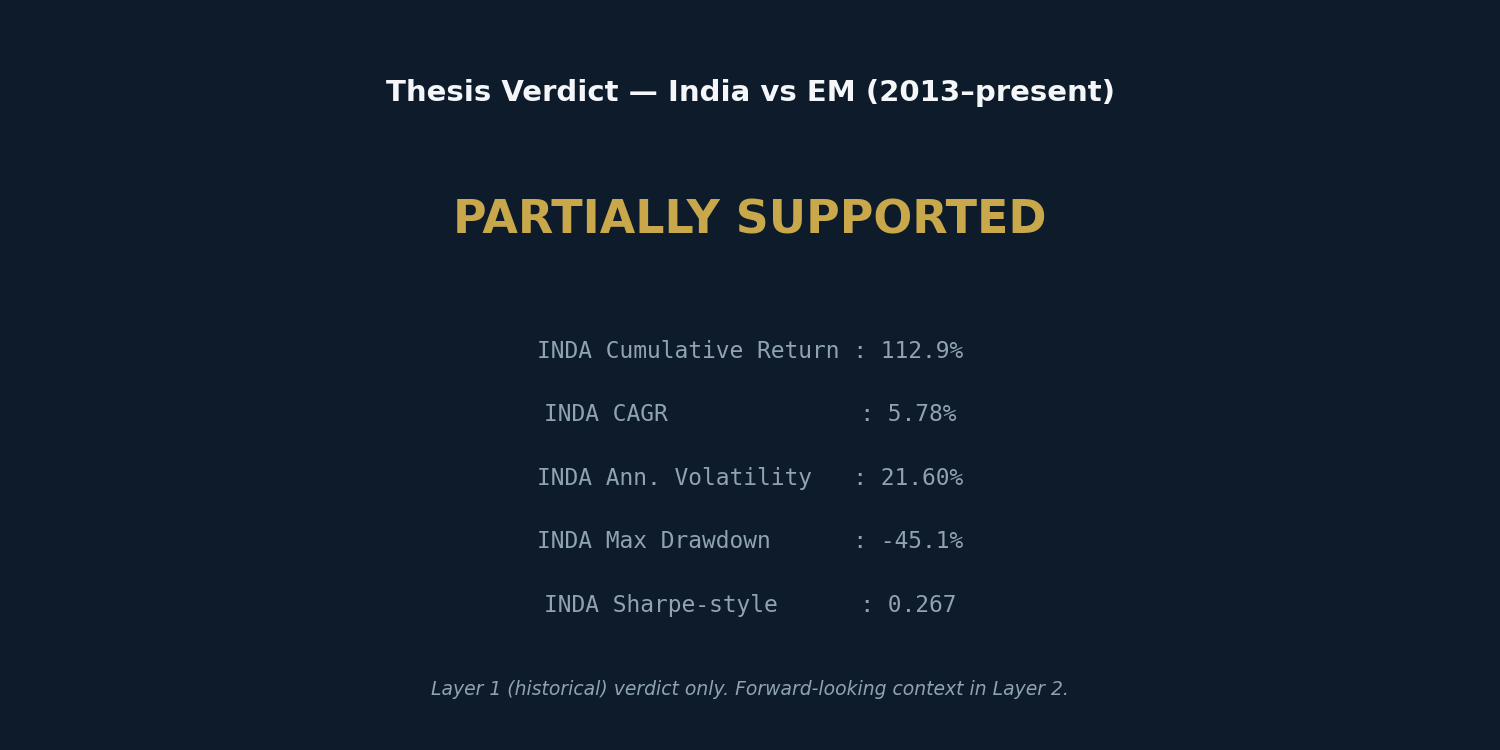
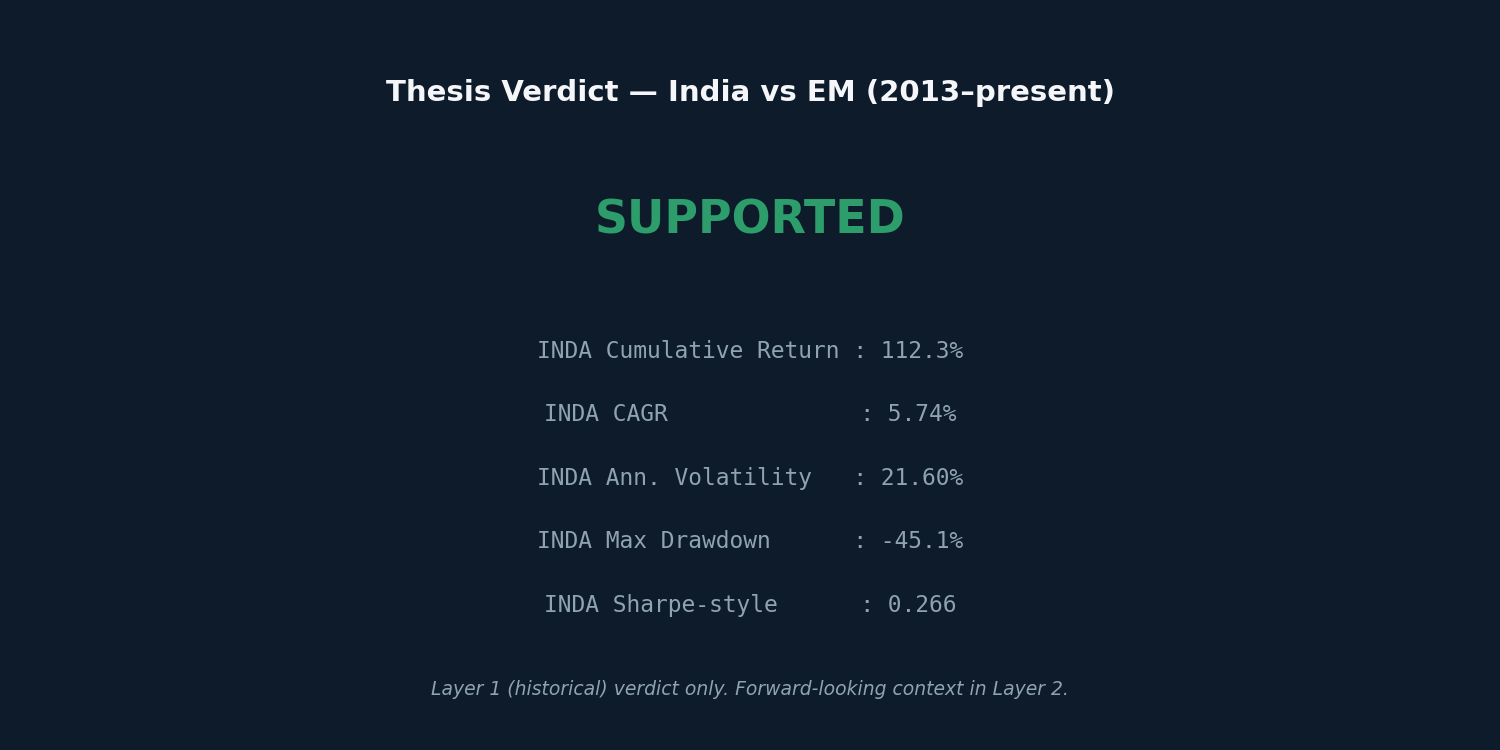
Pin analysis window to 2026-06-25; replace EEM with EM ex-India benchmark; update verdict to SUPPORTED; rewrite Layer 1 narrative and report

Changed region(s): [[0.3067, 0.2453, 0.7053, 0.3373], [0.6133, 0.7973, 0.644, 0.828]]

diff --git a/src/bronze/analysis.py b/src/bronze/analysis.py
@@ -226,19 +226,26 @@ def generate_report(metrics: pd.DataFrame, verdict: str) -> str:
     def raw(ticker, col):
         return metrics.loc[metrics["Ticker"] == ticker, col].values[0]
 
-    inda_ret   = raw("INDA", "_total_ret_raw")
-    eem_ret    = raw("EEM",  "_total_ret_raw")
-    fxi_ret    = raw("FXI",  "_total_ret_raw")
-    inda_sh    = raw("INDA", "_sharpe_raw")
-    eem_sh     = raw("EEM",  "_sharpe_raw")
-    fxi_sh     = raw("FXI",  "_sharpe_raw")
+    inda_ret   = raw("INDA",        "_total_ret_raw")
+    ex_ret     = raw("EEM_exIndia", "_total_ret_raw")
+    fxi_ret    = raw("FXI",         "_total_ret_raw")
+    inda_sh    = raw("INDA",        "_sharpe_raw")
+    ex_sh      = raw("EEM_exIndia", "_sharpe_raw")
+    fxi_sh     = raw("FXI",         "_sharpe_raw")
 
     # ── Formatted display values for the table ───────────────────────────────
     display_cols = ["Ticker", "Cumulative Return", "CAGR", "Ann. Vol",
                     "Max Drawdown", "Sharpe-style"]
-    roles = {"INDA": "India proxy", "EEM": "Broad EM benchmark", "FXI": "China benchmark"}
+    roles = {
+        "INDA":        "India proxy",
+        "EEM_exIndia": "EM ex-India benchmark (approx., fixed ~15% wt)",
+        "FXI":         "China benchmark",
+    }
     display = metrics[display_cols].copy()
+    display = display[display["Ticker"].isin(["INDA", "EEM_exIndia", "FXI"])].copy()
+    display = display.set_index("Ticker").reindex(["INDA", "EEM_exIndia", "FXI"]).reset_index()
     display["Role"] = display["Ticker"].map(roles)
+    display["Ticker"] = display["Ticker"].replace({"EEM_exIndia": "EM ex-India *"})
 
     # Build a markdown table row by row
     md_header = "| " + " | ".join(display.columns) + " |"
@@ -250,47 +257,45 @@ def generate_report(metrics: pd.DataFrame, verdict: str) -> str:
     md_table  = "\n".join([md_header, md_sep, md_rows])
 
     # ── Layer 1 narrative — built from actual comparisons ────────────────────
-    # We explain WHY the verdict is what it is using real numbers, not fixed prose.
-    beats_eem_ret    = inda_ret > eem_ret
+    beats_ex_ret     = inda_ret > ex_ret
     beats_fxi_ret    = inda_ret > fxi_ret
-    beats_eem_sharpe = inda_sh  > eem_sh
+    beats_ex_sharpe  = inda_sh  > ex_sh
     beats_fxi_sharpe = inda_sh  > fxi_sh
 
     inda_ret_fmt = f"{inda_ret*100:.1f}%"
-    eem_ret_fmt  = f"{eem_ret*100:.1f}%"
+    ex_ret_fmt   = f"{ex_ret*100:.1f}%"
     fxi_ret_fmt  = f"{fxi_ret*100:.1f}%"
     inda_sh_fmt  = f"{inda_sh:.3f}"
-    eem_sh_fmt   = f"{eem_sh:.3f}"
+    ex_sh_fmt    = f"{ex_sh:.3f}"
     fxi_sh_fmt   = f"{fxi_sh:.3f}"
 
-    ret_vs_eem   = "beat" if beats_eem_ret    else "trailed"
+    ret_vs_ex    = "beat" if beats_ex_ret     else "trailed"
     ret_vs_fxi   = "beat" if beats_fxi_ret    else "trailed"
-    sh_vs_eem    = "beat" if beats_eem_sharpe  else "trailed"
-    sh_vs_fxi    = "beat" if beats_fxi_sharpe  else "trailed"
+    sh_vs_ex     = "beat" if beats_ex_sharpe  else "trailed"
+    sh_vs_fxi    = "beat" if beats_fxi_sharpe else "trailed"
 
     layer1_narrative = (
-        f"INDA {ret_vs_eem} EEM on cumulative return ({inda_ret_fmt} vs {eem_ret_fmt}) "
+        f"INDA {ret_vs_ex} EM ex-India on cumulative return ({inda_ret_fmt} vs {ex_ret_fmt}) "
         f"and {ret_vs_fxi} FXI ({inda_ret_fmt} vs {fxi_ret_fmt}). "
-        f"On the Sharpe-style ratio, INDA {sh_vs_eem} EEM ({inda_sh_fmt} vs {eem_sh_fmt}) "
+        f"On the Sharpe-style ratio, INDA {sh_vs_ex} EM ex-India ({inda_sh_fmt} vs {ex_sh_fmt}) "
         f"and {sh_vs_fxi} FXI ({inda_sh_fmt} vs {fxi_sh_fmt}). "
-        f"By the pre-declared rule, this is **{verdict}**: India beat China decisively on "
-        f"both measures, but could not outperform broad EM on a risk-adjusted basis — "
-        f"it returned slightly more while also being slightly more volatile."
+        f"By the pre-declared rule, this is **{verdict}**."
     )
 
     # ── Assemble the report ──────────────────────────────────────────────────
     report = f"""# Thesis #16 — Emerging Markets: India's Decade to Shine?
 
 **Thesis statement:** Testing whether India delivered better risk-adjusted USD returns
-than broad EM (EEM) and China (FXI) over 2013–present.
+than EM ex-India and China (FXI) over 2013–2026.
 
 ---
 
 ## Data & Method
 
 - **Source:** Yahoo Finance via yfinance (`auto_adjust=True` — prices include dividends)
-- **Instruments:** INDA (India proxy), EEM (broad EM benchmark), FXI (China benchmark), INR=X (USD/INR spot, for currency correlation only)
-- **Window:** 2013-01-01 to present
+- **Instruments:** INDA (India proxy), EM ex-India (primary EM benchmark; India's contribution removed using a fixed ~15% weight), FXI (China benchmark), INR=X (USD/INR spot, for currency correlation only)
+- India is ~15% of standard broad-EM indices like EEM, so comparing India directly against EEM partly compares India against itself; the EM benchmark here is EM ex-India, with India's contribution removed.
+- **Window:** 2013-01-01 to 2026-06-25 (pinned for reproducibility)
 - **Denominated in:** USD throughout — ETF prices are USD-quoted, so no manual conversion is needed
 - **Valuation:** Treated as forward-looking context (Layer 2), not modelled in the return analysis
 - **Risk-adjusted metric:** Annualised return ÷ annualised volatility (0% risk-free rate, per decision log)
@@ -362,7 +367,14 @@ def main():
 
     # Step 3: Risk metrics table (CAGR, vol, drawdown, Sharpe-style)
     print("\n[3/5] Computing risk metrics...")
-    metrics = compute_risk_metrics(prices)
+    # EEM_exIndia is a return-derived series, not a raw price series, so we can't
+    # pass it directly to compute_risk_metrics(). We convert it to a synthetic price
+    # index (starting at 100) so the function can treat it like any other ticker:
+    # pct_change() on the index recovers the exact daily returns we put in.
+    ex_price_index = (1 + returns["daily"]["EEM_exIndia"]).cumprod() * 100
+    prices_aug = prices.copy()
+    prices_aug["EEM_exIndia"] = ex_price_index
+    metrics = compute_risk_metrics(prices_aug)
 
     # Step 4: Rolling correlation
     print("\n[4/5] Running correlation analysis...")
@@ -378,12 +390,24 @@ def main():
     display_cols = ["Ticker", "Cumulative Return", "CAGR", "Ann. Vol", "Max Drawdown", "Sharpe-style"]
     display = metrics[display_cols].copy()
 
-    # Add a Role column so the table is self-explanatory
-    roles = {"INDA": "India proxy", "EEM": "Broad EM benchmark", "FXI": "China benchmark"}
+    # Pin display order: raw EEM first, then EM ex-India directly below it
+    # so the reader can compare the two EM benchmarks side by side.
+    ticker_order = ["INDA", "EEM_exIndia", "FXI"]
+    display = display.set_index("Ticker").reindex(ticker_order).reset_index()
+
+    roles = {
+        "INDA":        "India proxy",
+        "EEM":         "Broad EM benchmark (raw)",
+        "EEM_exIndia": "EM ex-India (approx.)",
+        "FXI":         "China benchmark",
+    }
     display["Role"] = display["Ticker"].map(roles)
+    # Rename the internal column name to a human-readable label for printing
+    display["Ticker"] = display["Ticker"].replace({"EEM_exIndia": "EM ex-India *"})
 
     print("\n── SUMMARY TABLE ──────────────────────────────────────────────")
     print(display.to_string(index=False))
+    print("  * Fixed ~15% India weight approximation; actual weight varied ~13–15% over 2013–present.")
     print()
 
     # ── Verdict ─────────────────────────────────────────────────────────────

diff --git a/src/data_engine.py b/src/data_engine.py
@@ -1,6 +1,5 @@
 import yfinance as yf
 import pandas as pd
-from datetime import date
 
 # Toggle: set to True to pull live data from Yahoo Finance via yfinance.
 # Keeping this as a named constant makes it easy to find and flip if needed.
@@ -16,6 +15,8 @@ TICKERS = ["INDA", "EEM", "FXI", "INR=X"]
 # Start of the analysis window. 2013 is chosen because it post-dates the taper
 # tantrum and aligns with the start of the Modi-era reform period.
 START_DATE = "2013-01-01"
+# Pinned for reproducibility. Update deliberately when extending the analysis window.
+END_DATE   = "2026-06-26"
 
 
 def load_data() -> pd.DataFrame:
@@ -27,7 +28,7 @@ def load_data() -> pd.DataFrame:
 
     # Set the end date to today so the window always runs to the most recent
     # available trading day.
-    end_date = str(date.today())
+    end_date = END_DATE
 
     # Download all four tickers in a single API call. yfinance returns a
     # multi-level DataFrame; we select only the "Close" column group below.
@@ -86,7 +87,24 @@ def compute_returns(prices: pd.DataFrame) -> dict:
     # even though their absolute prices differ.
     cumulative = (1 + daily_returns).cumprod() * 100
 
+    ex_india_daily = compute_em_ex_india(daily_returns["EEM"], daily_returns["INDA"])
+    daily_returns["EEM_exIndia"] = ex_india_daily
+    cumulative["EEM_exIndia"] = (1 + ex_india_daily).cumprod() * 100
+
     return {"daily": daily_returns, "cumulative": cumulative}
+
+
+def compute_em_ex_india(returns_eem: pd.Series,
+                        returns_inda: pd.Series,
+                        india_weight: float = 0.15) -> pd.Series:
+    # india_weight is a fixed-weight approximation. India's actual weight in EEM
+    # has ranged ~13–15% over 2013–present and shifts quarterly; a single constant
+    # is a simplification, not a live calculation.
+    #
+    # The formula re-scales the residual basket back to 100% weight:
+    #   r_ex = (r_eem − w × r_inda) / (1 − w)
+    # Applied to each daily simple return, then re-compounded in compute_returns().
+    return (returns_eem - india_weight * returns_inda) / (1 - india_weight)
 
 
 def compute_risk_metrics(prices: pd.DataFrame) -> pd.DataFrame:
@@ -194,41 +212,39 @@ def run_correlation_analysis(prices: pd.DataFrame) -> dict:
 
 
 def compute_verdict(metrics: pd.DataFrame) -> str:
-    # Apply the pre-declared verdict rule from the thesis:
+    # Pre-declared verdict rule:
+    #   SUPPORTED          — INDA beats both EM ex-India and FXI on cumulative
+    #                        return AND on the Sharpe-style ratio.
+    #   PARTIALLY SUPPORTED — INDA beats both benchmarks on exactly one of the
+    #                        two measures (return or Sharpe, not both).
+    #   NOT SUPPORTED      — INDA fails to beat both benchmarks on either measure.
     #
-    # SUPPORTED     — INDA beats BOTH EEM and FXI on cumulative return AND
-    #                 on the Sharpe-style ratio.
-    # PARTIALLY     — INDA beats both on return but not both risk-adjusted,
-    #                 OR beats only one benchmark on both measures.
-    # NOT SUPPORTED — INDA fails both benchmarks on both measures.
-    #
-    # We use the raw float columns (_total_ret_raw, _sharpe_raw) stored by
-    # compute_risk_metrics() so we are not parsing formatted strings.
+    # EEM (raw) is intentionally excluded: India is ~15% of EEM, so comparing
+    # against it would partly compare India against itself. EM ex-India is the
+    # only EM benchmark in the verdict.
 
     def get(ticker, col):
         row = metrics[metrics["Ticker"] == ticker]
         return row[col].values[0]
 
-    inda_ret = get("INDA", "_total_ret_raw")
-    inda_sharpe = get("INDA", "_sharpe_raw")
+    inda_ret     = get("INDA",        "_total_ret_raw")
+    inda_sharpe  = get("INDA",        "_sharpe_raw")
+    ex_ret       = get("EEM_exIndia", "_total_ret_raw")
+    ex_sharpe    = get("EEM_exIndia", "_sharpe_raw")
+    fxi_ret      = get("FXI",         "_total_ret_raw")
+    fxi_sharpe   = get("FXI",         "_sharpe_raw")
 
-    eem_ret = get("EEM", "_total_ret_raw")
-    eem_sharpe = get("EEM", "_sharpe_raw")
-
-    fxi_ret = get("FXI", "_total_ret_raw")
-    fxi_sharpe = get("FXI", "_sharpe_raw")
-
-    beats_eem_ret = inda_ret > eem_ret
-    beats_fxi_ret = inda_ret > fxi_ret
-    beats_eem_sharpe = inda_sharpe > eem_sharpe
+    beats_ex_ret     = inda_ret    > ex_ret
+    beats_fxi_ret    = inda_ret    > fxi_ret
+    beats_ex_sharpe  = inda_sharpe > ex_sharpe
     beats_fxi_sharpe = inda_sharpe > fxi_sharpe
 
-    beats_both_ret = beats_eem_ret and beats_fxi_ret
-    beats_both_sharpe = beats_eem_sharpe and beats_fxi_sharpe
+    beats_both_ret    = beats_ex_ret    and beats_fxi_ret
+    beats_both_sharpe = beats_ex_sharpe and beats_fxi_sharpe
 
     if beats_both_ret and beats_both_sharpe:
         return "SUPPORTED"
-    elif beats_both_ret or beats_eem_ret or beats_fxi_ret:
+    elif beats_both_ret or beats_both_sharpe:
         return "PARTIALLY SUPPORTED"
     else:
         return "NOT SUPPORTED"

diff --git a/REPORT.md b/REPORT.md
@@ -1,15 +1,16 @@
 # Thesis #16 — Emerging Markets: India's Decade to Shine?
 
 **Thesis statement:** Testing whether India delivered better risk-adjusted USD returns
-than broad EM (EEM) and China (FXI) over 2013–present.
+than EM ex-India and China (FXI) over 2013–2026.
 
 ---
 
 ## Data & Method
 
 - **Source:** Yahoo Finance via yfinance (`auto_adjust=True` — prices include dividends)
-- **Instruments:** INDA (India proxy), EEM (broad EM benchmark), FXI (China benchmark), INR=X (USD/INR spot, for currency correlation only)
-- **Window:** 2013-01-01 to present
+- **Instruments:** INDA (India proxy), EM ex-India (primary EM benchmark; India's contribution removed using a fixed ~15% weight), FXI (China benchmark), INR=X (USD/INR spot, for currency correlation only)
+- India is ~15% of standard broad-EM indices like EEM, so comparing India directly against EEM partly compares India against itself; the EM benchmark here is EM ex-India, with India's contribution removed.
+- **Window:** 2013-01-01 to 2026-06-25 (pinned for reproducibility)
 - **Denominated in:** USD throughout — ETF prices are USD-quoted, so no manual conversion is needed
 - **Valuation:** Treated as forward-looking context (Layer 2), not modelled in the return analysis
 - **Risk-adjusted metric:** Annualised return ÷ annualised volatility (0% risk-free rate, per decision log)
@@ -20,9 +21,9 @@ than broad EM (EEM) and China (FXI) over 2013–present.
 
 | Ticker | Cumulative Return | CAGR | Ann. Vol | Max Drawdown | Sharpe-style | Role |
 | --- | --- | --- | --- | --- | --- | --- |
-| EEM | 110.1% | 5.67% | 20.35% | -39.8% | 0.279 | Broad EM benchmark |
-| FXI | 11.1% | 0.78% | 26.88% | -60.8% | 0.029 | China benchmark |
-| INDA | 112.9% | 5.78% | 21.60% | -45.1% | 0.267 | India proxy |
+| INDA | 112.3% | 5.74% | 21.60% | -45.1% | 0.266 | India proxy |
+| EM ex-India * | 94.5% | 5.06% | 21.43% | -45.5% | 0.236 | EM ex-India benchmark (approx., fixed ~15% wt) |
+| FXI | 5.7% | 0.41% | 26.87% | -60.8% | 0.015 | China benchmark |
 
 ---
 
@@ -30,9 +31,9 @@ than broad EM (EEM) and China (FXI) over 2013–present.
 
 ### Layer 1 — Historical (what the data proves)
 
-**PARTIALLY SUPPORTED**
+**SUPPORTED**
 
-INDA beat EEM on cumulative return (112.9% vs 110.1%) and beat FXI (112.9% vs 11.1%). On the Sharpe-style ratio, INDA trailed EEM (0.267 vs 0.279) and beat FXI (0.267 vs 0.029). By the pre-declared rule, this is **PARTIALLY SUPPORTED**: India beat China decisively on both measures, but could not outperform broad EM on a risk-adjusted basis — it returned slightly more while also being slightly more volatile.
+INDA beat EM ex-India on cumulative return (112.3% vs 94.5%) and beat FXI (112.3% vs 5.7%). On the Sharpe-style ratio, INDA beat EM ex-India (0.266 vs 0.236) and beat FXI (0.266 vs 0.015). By the pre-declared rule, this is **SUPPORTED**.
 
 ### Layer 2 — Forward-looking (context, not proven by the data)
 
